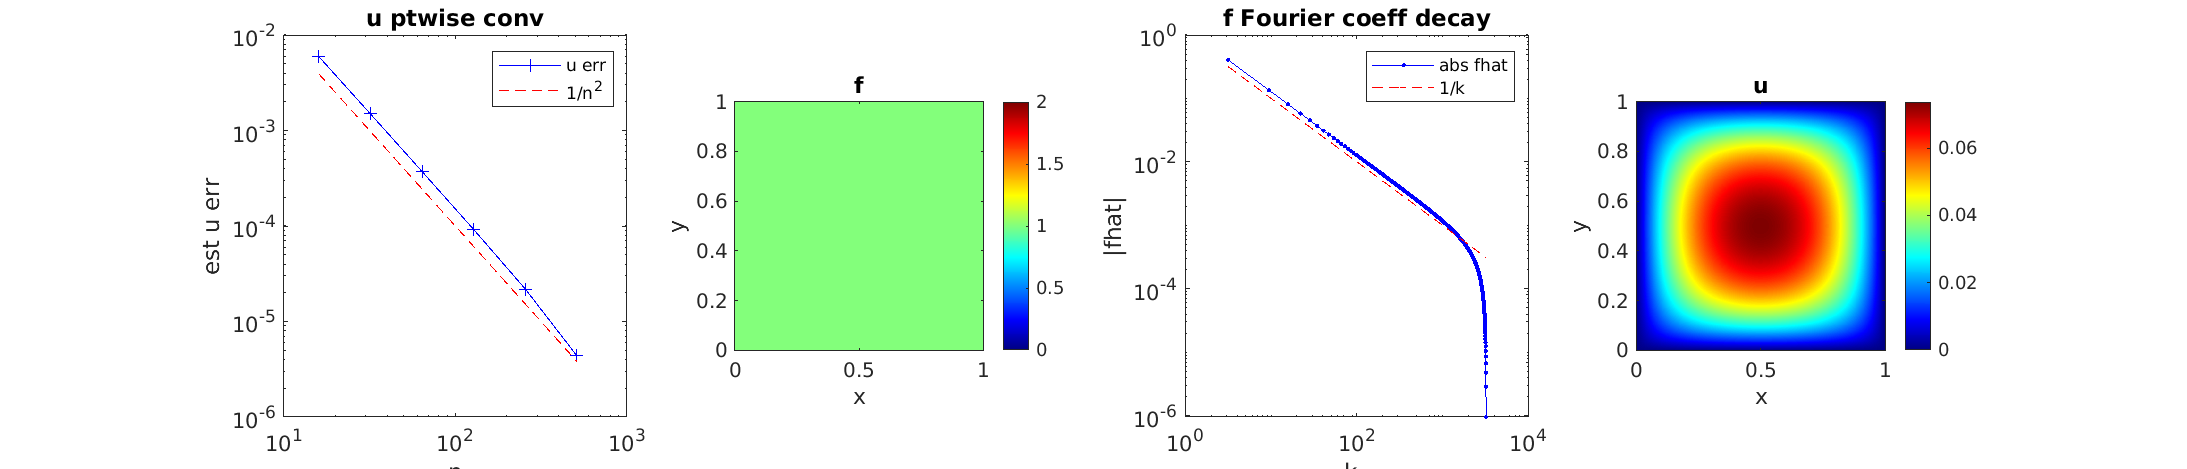
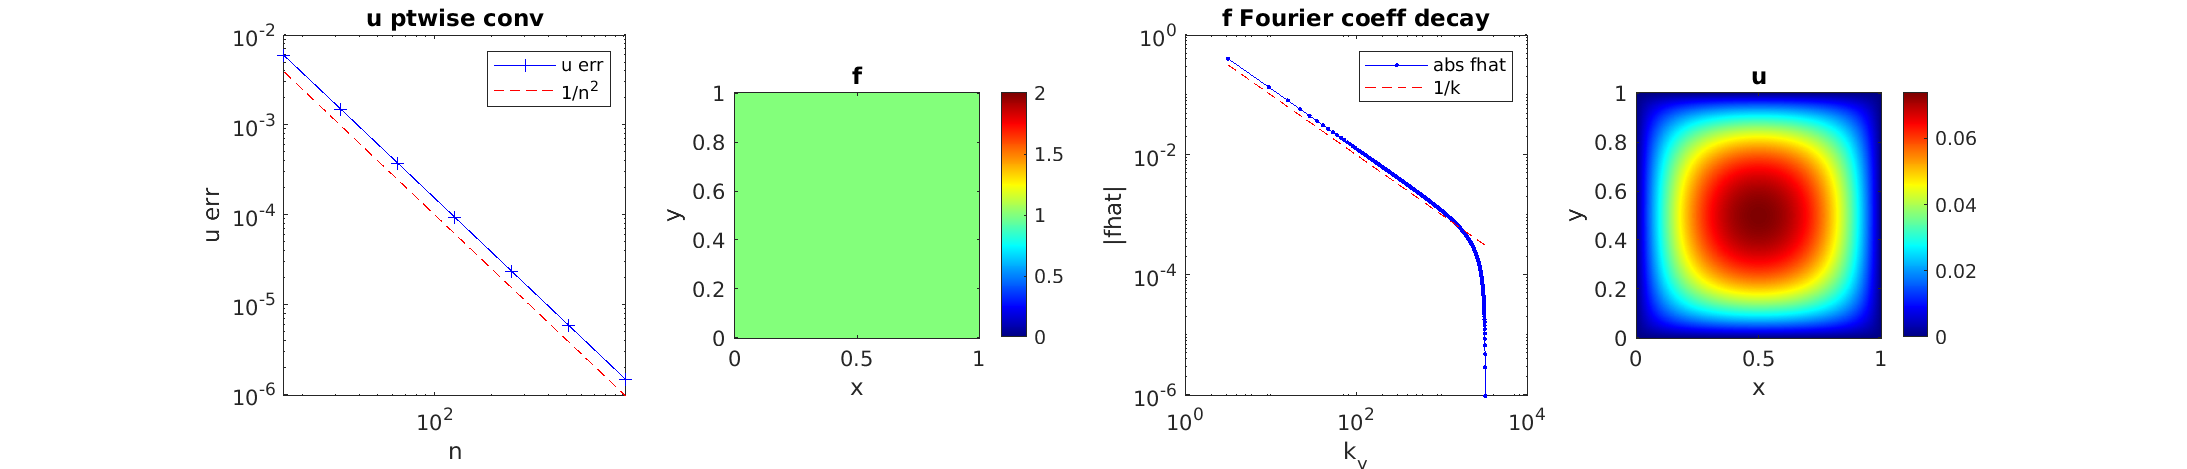
brain-dump to README on analysis

diff --git a/spectralfft2d.m b/spectralfft2d.m
@@ -90,15 +90,18 @@ axis tight equal xy; colorbar
 disp('fig3: conv rate on C-infty f whose reflection to [0,2]^2 non-smooth...')
 rhsfun = @(x,y) 1 + 0*x;     % identically 1; reflects to a "1,-1,1,-1 4-junc"
 ns = 2.^(4:10);        % conv test, all n must be even, now geom spaced
+xt=0.75; yt=0.625;   % fixed test point, must be multiple of 1/16 to hit grid!
 us = nan*ns;
 for i=1:numel(ns), n=ns(i);
   [u info] = spectralfft2d(rhsfun,n);
-  us(i) = u(3*n/4+1,5*n/8+1);   % extract val at same (0.75,0.625), offcenter
+  us(i) = u(n*xt+1,n*yt+1);   % extract val at fixed (xt,yt), offcenter
 end
-% note we could also use analytic torsion soln (sum of sinh*cosh) here...
-figure(3); clf; set(gcf,'position',[200 200 1400 300]); ns = ns(1:end-1);
-subplot(1,4,1); loglog(ns,abs(us(1:end-1)-us(end))/us(end),'+-');
-xlabel('n'); ylabel('est u err'); hold on; plot(ns,ns.^-2,'r--');
+nn = 1:2:1e4;       % odd terms for exact soln sum, slow conv 1/n^3, err 1e-12
+xterm = (1-cosh(nn*pi*(xt-0.5))./cosh(nn*pi/2)); xterm(30:end)=1; % fix NaNs
+uex = (4/pi^3)*sum(nn.^-3 .* xterm .*sin(nn*pi*yt));  % 1D F.S. sum formula
+figure(3); clf; set(gcf,'position',[200 200 1400 300]);
+subplot(1,4,1); loglog(ns,abs(us-uex)/uex,'+-');
+xlabel('n'); ylabel('u err'); hold on; plot(ns,ns.^-2,'r--');
 legend('u err', '1/n^2'); title('u ptwise conv');
 subplot(1,4,2); g = (0:n)/n; [xx yy] = ndgrid(g,g);
 imagesc(g,g,rhsfun(xx,yy)'); xlabel('x'); ylabel('y'); title('f')

diff --git a/README.md b/README.md
@@ -1,27 +1,112 @@
 # poisson-square-spectral
 
-MATLAB demo of FFT fast solver for Poisson's equation with homogeneous Dirichlet BCs in the square.
+MATLAB demo of FFT-based ${\cal O}(n^2 \log n)$ solver for Poisson's equation with homogeneous Dirichlet BCs on the square, on a regular $n\times n$ grid.
 
-Run `spectralfft2d` without arguments, which performs a set of demo tests
-and produces the following figure outputs. The function is documented below.
+Letting $\Omega = [0,1]^2 \subset \mathbb{R}^2$, given $f$,
+the BVP is to solve for $u$ obeying
+$$
+-\Delta u = f \qquad \mbox{ in } \Omega
+\\
+u = 0 \qquad \mbox{ on } \partial\Omega
+$$.
 
+This solver answers in the affirmative the question of Fortunato-Townsend as to the existence of an optimal-complexity spectral method for the above BVP,
+in a simpler alternative fashion to their paper [1].
+A question remains about the improved algebraic convergence rate of their
+solver over that of this repo, expected due to its Chebyshev node concentration towards edges, vs our uniform grid.
 
-### Demo outputs
+### Usage
 
-1.
+In MATLAB/Octave, run `spectralfft2d` without arguments, which performs a set of demo and convergence tests and produces the below figure outputs. The function is documented below.
 
-![fig 1: analytic solution at single frequency](figs/fig1.png)
+### Method
 
-2.
+The method is simply solution by the 2D fast Fourier sine tranform
+given the samples $f(i/n,j/n)$ for $i,j = 0,1,\dots,n-1$, ie, the
+regular $n\times n$ grid.
+The restriction to the sine series is implemented crudely
+by unfolding $f$ on $[0,1]^2$ into $\tilde f$ on $[0,2]^2$,
+using odd reflection symmetry about each wall, and on this
+larger periodic domain using the standard bivariate Fourier series
+$$
+\tilde f(x,y) = \sum_{m,l\in\mathbb{Z}}
+f_{ml} e^{i\pi(mx+ly)},
+\qquad
+\tilde u(x,y) = \sum_{m,l\in\mathbb{Z}} u_{ml} e^{i\pi(mx+ly)}.
+$$
+The boundary values of $f$, and their unfolded values, are set to zero,
+which guarantees $f_{ml} = 0$ when either $m$ or $l$ is even.
+The PDE then implies the spectral filter $u_{ml} = f_{ml}/\pi^2(m^2+l^2)$.
+Numerically the 2D array $f_{ml}$ for $m,l\in\{-n,-n+1,\dots,n-1\}$
+is found from an inverse 2D FFT of the grid samples.
+The multiplicative filter is then applied, and a forward 2D FFT evaluates
+the series back at the (unfolded) nodes $(i/n,j/n)$ for $i,j = 0,1,\dots,2n-1$.
+The code outputs just the nodes lying in $\Omega$, ie $i,j = 0,1,\dots,n$.
+Use of a FDST might improve the prefactor in solution time.
 
-![fig 2: spectral convergence for numerically localized Gaussian forcing](figs/fig2.png)
+### Demo outputs and discussion
 
-3.
+1. First we test an analytic single-wavenumber forcing
+   $f(x,y) = (\sin \pi x)(\sin 3\pi y)$ for which the solution is
+   $u = (\pi^2 + (3\pi)^{-2}f$. We see instant convergence
+   to relative error around $\epsilon_{mach}$ whenever $n \ge 3$.
 
-![fig 3: algebraic convergence for constant forcing, due to weak corner singularities](figs/fig3.png)
+   ![fig 1: analytic solution at single frequency](figs/fig1.png)
 
+2. Now we test $f$ a Gaussian bump sufficiently narrow that its
+   $\epsilon$-support lies within $\Omega$ for $\epsilon \sim 10^{-14}$.
+   This means the periodization of the function is smooth apart from jumps
+   at the $\epsilon$ level.
+   The observed convergence with $n$ (the maximum frequency) is spectral,
+   possibly even super-exponential:
 
+   ![fig 2: spectral convergence for numerically localized Gaussian forcing](figs/fig2.png)
 
+   This is as expected since (at least down to a level $\epsilon$)
+   the decay of $|f_{ml}|$ is super-exponential in
+   the wavenumber $k_{ml} := \pi\sqrt{m^2+l^2}$.
+
+3. Finally we test $f\equiv 1$, which unfolds under reflection to the
+   checkerboard
+   $-1$ in $[1,2]\times[0,1]$ and $[0,1]\times[1,2]$, and $+1$ again
+   in $[1,2]\times[1,2]$. Thus each edge has a discontinuity in $f$,
+   to the PDE gives that $u$ is $C^1$ but not $C^2$ there.
+   Naively (thinking in 1D)
+   one might expect that $|f_{ml}| = {\cal O}(1/k_{ml})$ so that
+   $|u_{ml}| = {\cal O}(1/k_{ml}^3)$,
+   and summing the truncated (1D) tail of such coefficients from $n$ to $\infty$
+   one might get an error ${\cal O}(1/n^2)$.
+   Indeed this algebraic rate is observed:
+
+   ![fig 3: algebraic convergence for constant forcing, due to weak corner singularities](figs/fig3.png)
+
+   The solution for this last case is that of Poiseuille flow in a pipe of
+   square cross-section, or the torsion problem in elasticity for a bar
+   of square cross-section (eg see [2]).
+   The usual series solution [3, eqn (2.47)] uses a Fourier series in, say, $y$, then
+   solves an ODE via particular plus homogeneous solution in $x$, giving
+   $$
+   u(x,y) = \frac{4}{\pi^3} \sum_{l=1,3,5,\dots} \frac{1}{l^3}
+   \left(1 - \frac{\cosh l\pi(x-1/2)}{\cosh l \pi/2}\right)
+   \sin l \pi y.
+   $$
+   This indicates $1/k^3$ decay in the $y$ Fourier direction but
+   does not give complete insight into the numerical
+   convergence. Better is to get the 2D Fourier series coefficients analytically
+   via the Euler--Fourier integrals
+   $$
+   f_{ml} = \frac{2^2}{\pi^2} \int_0^1 \sin m\pi x \, \sin l\pi y \, dxdy
+   = \frac{4}{\pi^2ml},
+   $$
+   so that by the PDE,
+   $$
+   u_{ml} = \frac{4}\{\pi^2ml(m^2+l^2)},
+   $$
+   which has $1/k^3$ decay along
+   the axes (due to the dominant edge singularities)
+   but $1/k^4$ along generic directions (perhaps due to corners). This explains
+   the tail sum outside the box $|m|,|l| \le n$ decaying as $1/n^3$ rather
+   than $1/n^2$.
 
 
 ### Documentation
@@ -51,3 +136,33 @@ and produces the following figure outputs. The function is documented below.
 %    when f does not reflect to [0,2]^2 as a smooth function (see 3rd test).
 ```
 
+### Open questions
+
+1. How much better is the algebraic rate of the Chebyshev grid method of Fortunato-Townsend than the $1/n^2$ we observe? Conjecture it could be $1/n^4$.
+
+   The argument goes as follows. A Chebyshev series on $x\in[0,1]$
+   is a Fourier series
+   in $\theta$ where $\pi (x-1/2) = \cos \theta$. At the left endpoint
+   $x\sim \theta^2$.
+   We expect the PDE to have at a vertical edge the
+   singularity $(x)_+^\alpha$ of power $\alpha=2$, which would give
+   Fourier coefficient decay of $1/k^{1+\alpha} = 1/k^3$. But the
+   singularity in $\theta$ is $(\theta)_+^4$, so the Chebyshev
+   coefficient decay should be $1/k^{1+2\alpha} = 1/k^5$.
+   Summing the tail from $k=n$ to $\infty$ gives error ${cal O}(1/n^4)$.
+   
+
+
+### References
+
+[1]. D. Fortunato and A. Townsend, "Fast Poisson solvers for spectral methods",
+IMA J. Numer. Anal. _40_, 1994--2018 (2020).
+
+[2]. M. Bazant, "Exact solutions and physical analogies for unidirectional flows", Phys. Rev. Fluids _1_, 024001 (2016).
+
+[3]. H. Bruus, *Theoretical Microfluidics* (Oxford University Press, Oxford, 2008).
+
+
+### Acknowledgments
+
+We thanks Manas Rachh for useful discussion.
